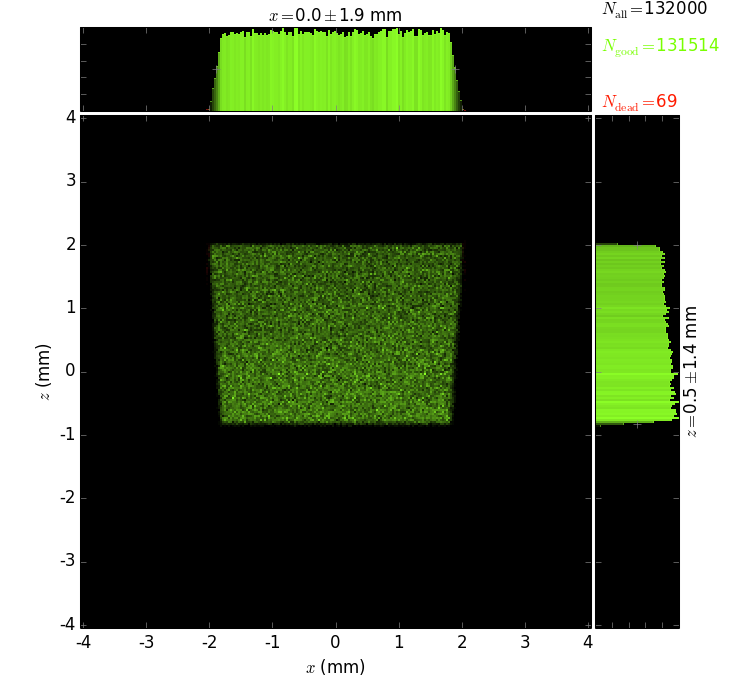
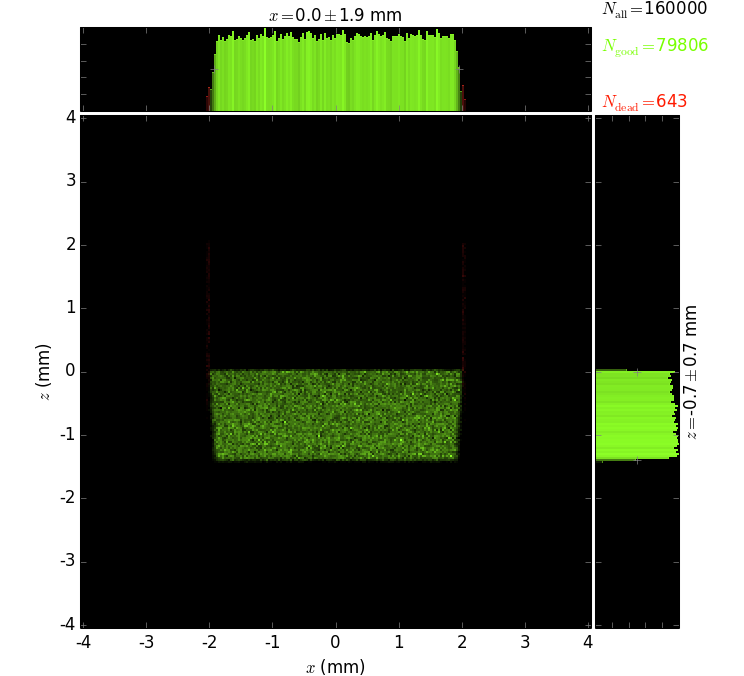
object length = 2mm, visible difference

diff --git a/object_testing.py b/object_testing.py
@@ -82,7 +82,7 @@ def build_beamline(nrays=1000):
     shape = [(0.1*v[0], 0.1*v[1]) for v in shape]
 
     # Set position and thickness
-    limPhysY = [35.95, 39.95]
+    limPhysY = [37.95, 39.95]
     limPhysX = [-2.0, 2.0]
 
     # Tested material
